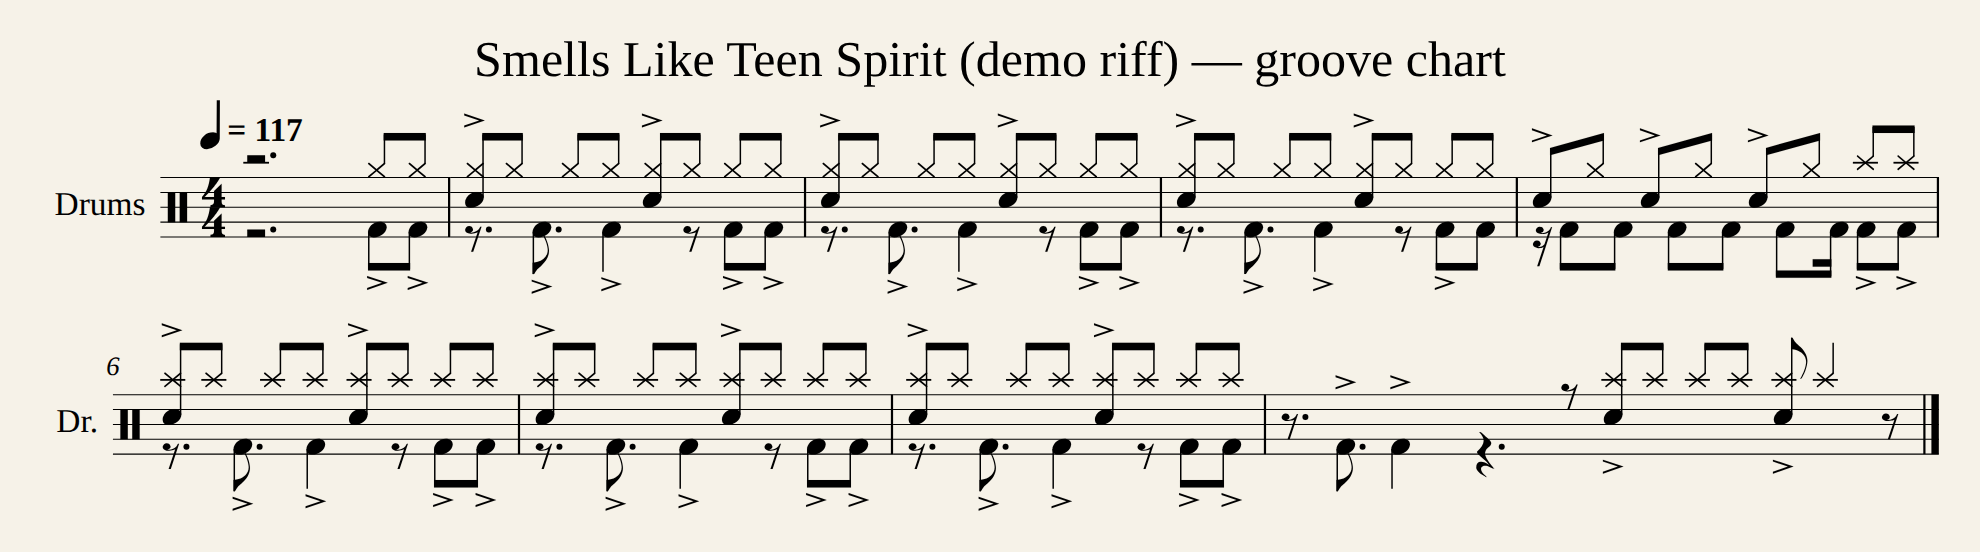
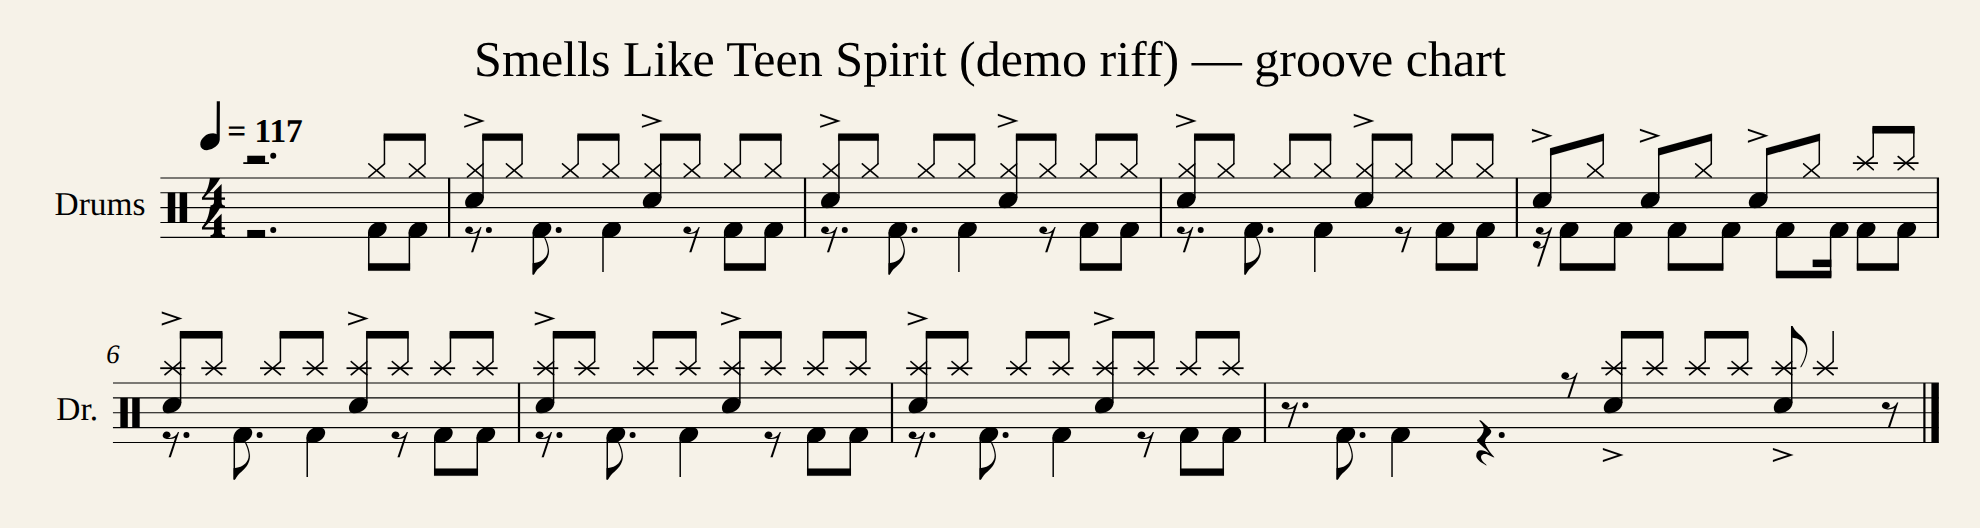
Notation: ghost/accent markings follow drum-key convention
Velocity-based dynamics were marked on EVERY instrument, so loud kicks
carried accent marks and quiet transcribed kicks engraved as
parenthesized 'ghost kicks' — neither exists on a real chart. Per the
standard drum key: ghost-note parentheses are a snare/tom device, and
accents belong on the hands. The bass drum line now stays clean.

Regression test pins it (a 30-velocity and a 127-velocity kick must
produce neither parentheses nor accents); demo chart and media
regenerated.

diff --git a/drum_extractor/notation.py b/drum_extractor/notation.py
@@ -18,7 +18,7 @@ from pathlib import Path
 from .config import NotationConfig, QuantizeConfig
 from .errors import ExternalToolError, MissingDependencyError
 from .events import Transcription
-from .gm_drum_map import PLACEMENT, SNARE
+from .gm_drum_map import FAMILY, PLACEMENT, SNARE
 from .logging_utils import get_logger
 
 log = get_logger(__name__)
@@ -155,11 +155,14 @@ def build_score(transcription: Transcription, config: NotationConfig | None = No
             u.notehead = place.notehead
             u.stemDirection = place.stem
             u.volume.velocity = hit.velocity
-            # Dynamics are half the groove: quiet hits engrave as ghost notes
-            # (parenthesized), loud ones get an accent mark.
-            if hit.velocity <= GHOST_VELOCITY:
+            # Dynamics are half the groove — but marked per standard drum-key
+            # conventions: ghost notes (parenthesized heads) are a SNARE/tom
+            # device, and accents belong on the hands. The bass drum never
+            # takes ghost parentheses or per-note accent marks on a chart.
+            family = FAMILY.get(hit.instrument, "other")
+            if hit.velocity <= GHOST_VELOCITY and family in ("snare", "toms"):
                 u.noteheadParenthesis = True
-            elif hit.velocity >= ACCENT_VELOCITY:
+            elif hit.velocity >= ACCENT_VELOCITY and place.voice == 1:
                 u.articulations.append(articulations.Accent())
             elements.append((u, place))
 

diff --git a/tests/test_full_audit.py b/tests/test_full_audit.py
@@ -537,6 +537,22 @@ def test_rerun_without_bass_removes_stale_bass_outputs(tmp_path):
         assert not (song_dir / stale).exists(), f"stale {stale} survived a --no-bass rerun"
 
 
+def test_kick_never_gets_ghost_or_accent_markings(tmp_path):
+    """Per standard drum-key convention (ghosts are a snare/tom device,
+    accents belong on the hands): a quiet kick must NOT engrave parenthesized
+    and a loud kick must NOT carry an accent mark."""
+    pytest.importorskip("music21")
+    from drum_extractor.notation import transcription_to_musicxml
+
+    tr = Transcription(drum_hits=[
+        DrumHit(0.0, "kick", velocity=30, bar=1, beat=0.0),    # quiet kick
+        DrumHit(0.0, "kick", velocity=127, bar=1, beat=2.0),   # slammed kick
+    ], tempo=120.0)
+    xml = transcription_to_musicxml(tr, tmp_path / "k.musicxml", NotationConfig(), QuantizeConfig()).read_text()
+    assert 'parentheses="yes"' not in xml, "ghost-note parentheses on a bass drum"
+    assert "<accent" not in xml, "accent mark on a bass drum"
+
+
 def test_drum_part_abbreviation_is_not_perc(tmp_path):
     """Continuation systems print the part ABBREVIATION: music21's generic
     Percussion says 'Perc', which made system 2+ look like a separate
